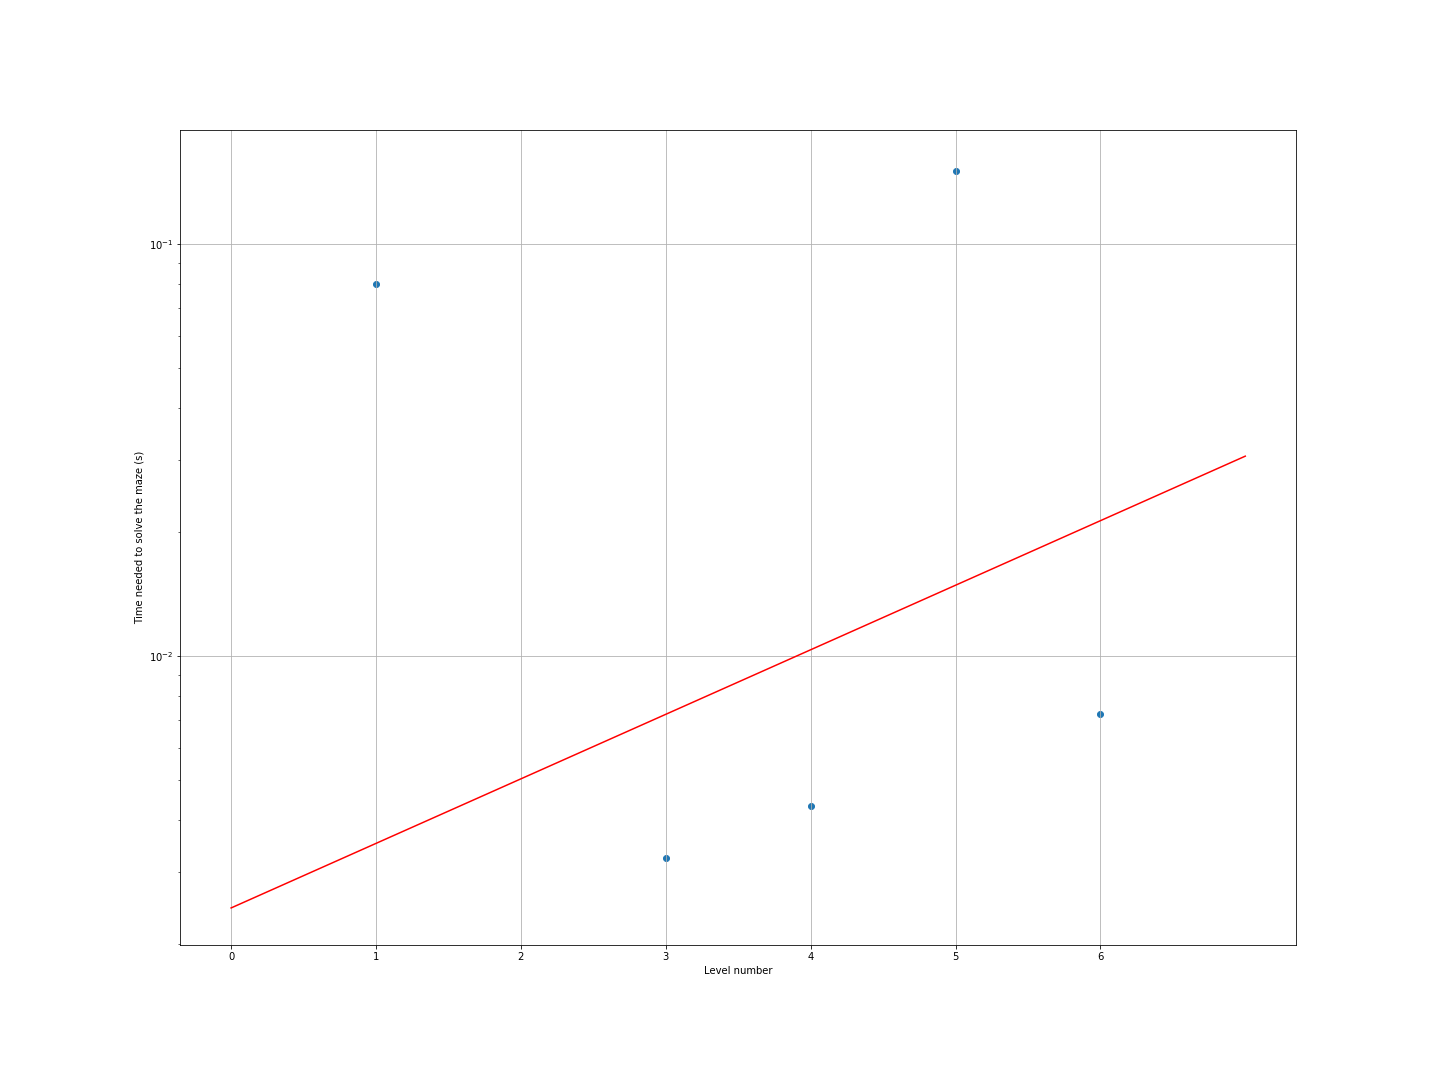
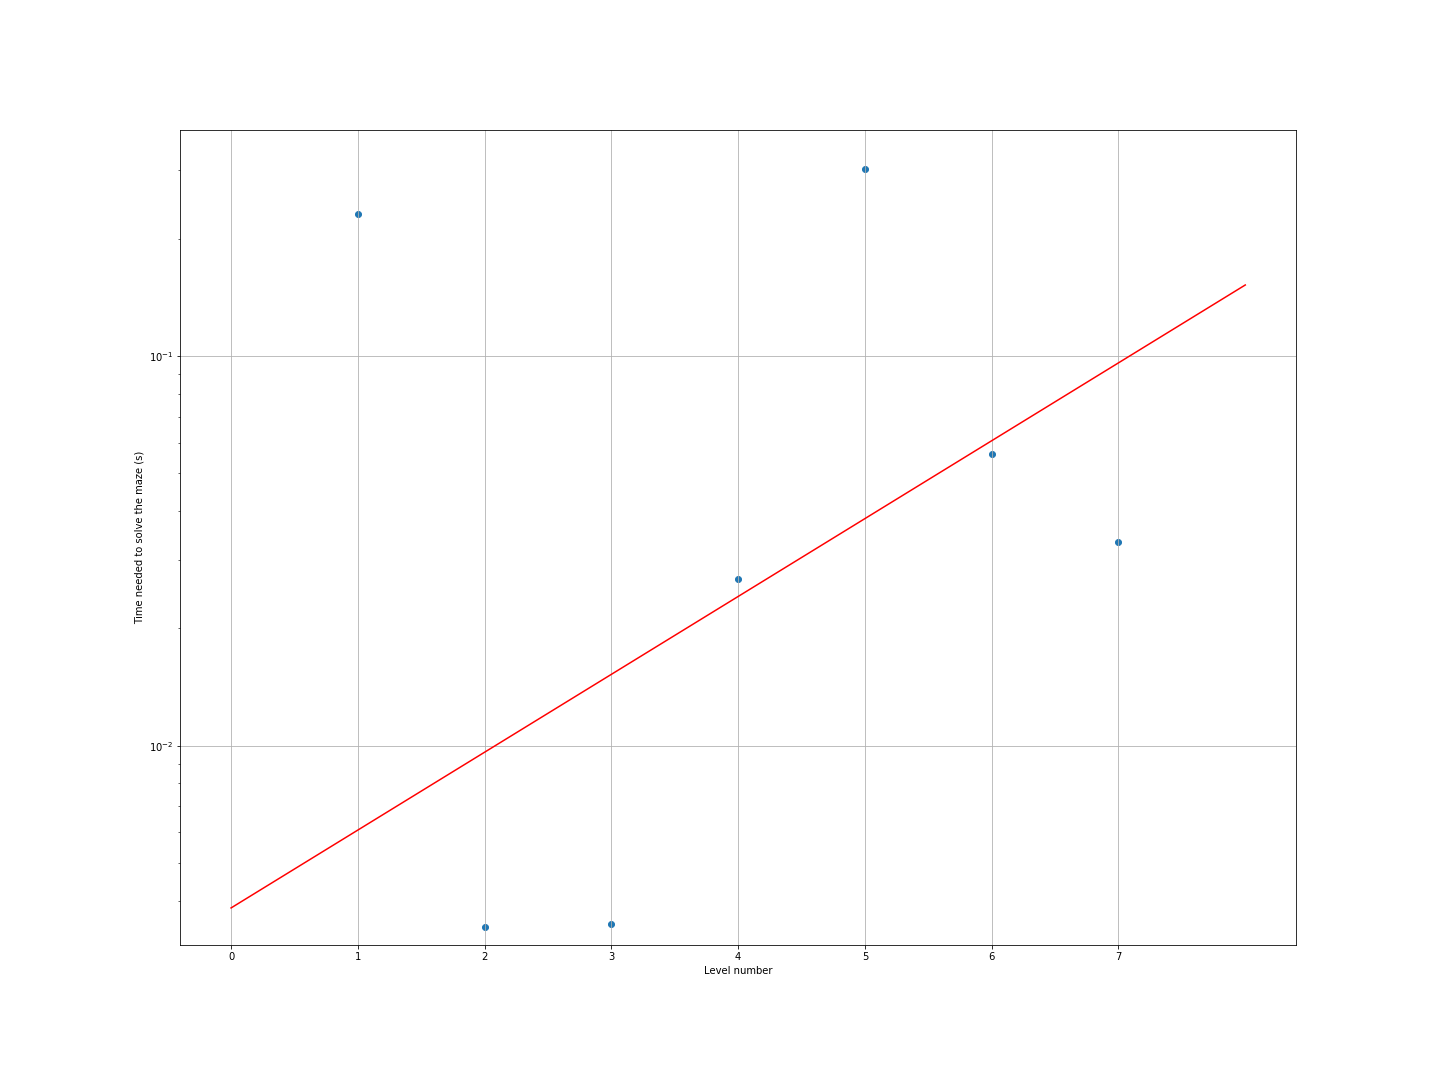
Multithreading the function that calculates all solutions

diff --git a/logic_gates_mazes_python_code/Levels.py b/logic_gates_mazes_python_code/Levels.py
@@ -123,6 +123,7 @@ class Levels:
                              level_knight,
                              level_syracuse,
                              level_temple,
+                             
                              #level_random,
                              ]
 
@@ -137,38 +138,45 @@ class Levels:
             Levels.levels_list[level_number].reboot_solution()
         return Levels.levels_list[level_number]
     
-    def save_solutions_txt(verbose=0, do_it_fast=False):
+    def save_solutions_txt(verbose=0, do_it_fast=False, multithreads=False):
         t0 = time()
         txt = ''
         if not os_path_exists('solutions'):
             os_mkdir('solutions')
-        if do_it_fast:
-            for k in range(Levels.number_of_levels):
+        if not do_it_fast:
+            calculations_times = [None for i in range(Levels.number_of_levels)]
+            def find_solution(k):
                 level = Levels.get_level(k)
+                txt = '\n'
                 name = level.name
-                if verbose > 0:
-                    print('\nLevel', k, ':', name)
-                txt += 'Level ' + str(k) + ' : ' + name + '\n'
-                txt += str(level.fastest_solution) + '\n\n'
-        else:
-            calculations_times = []
-            for k in range(Levels.number_of_levels):
-                level = Levels.get_level(k)
-                print('')
-                name = level.name
-                print('Level', k, ':', name)
-                txt += 'Level ' + str(k) + ' : ' + name + '\n'
+                txt = txt + ' '.join(['Level', str(k), ':', name, '\n'])
                 t2 = time()
-                solutions = level.find_all_solutions(stop_at_first_solution=False,
-                                                     verbose=0)
+                solutions = level.find_all_solutions(stop_at_first_solution=False, verbose=0)
                 t3 = time()
                 for sol in solutions:
-                    print(' '.join(sol))
-                    txt += ' '.join(sol) + '\n'
+                    txt = txt + ' '.join(sol) + '\n'
                 if verbose >= 1:
-                    print(t3 - t2, 's')
-                    calculations_times.append(t3 - t2)
-                txt += '\n' + level.name
+                    txt = txt + str(t3 - t2) + 's'
+                    calculations_times[k] = t3 - t2
+                print(txt)
+            if multithreads:
+                import threading
+                l_threads = []
+                for k in range(Levels.number_of_levels):
+                    thread = threading.Thread(target=find_solution, args=(k,))
+                    l_threads.append(thread)
+                for thread in l_threads:
+                    thread.start()
+                for thread in l_threads:
+                    thread.join()
+            else:
+                for k in range(Levels.number_of_levels):
+                    txt = find_solution(k)
+        for k in range(Levels.number_of_levels):
+            level = Levels.get_level(k)
+            name = level.name
+            txt += 'Level ' + str(k) + ' : ' + name + '\n'
+            txt += str(level.fastest_solution) + '\n\n'
         with open('solutions/solutions.txt', 'w') as f:
             f.write(txt)
         t1 = time()

diff --git a/logic_gates_mazes_python_code/save_solutions.py b/logic_gates_mazes_python_code/save_solutions.py
@@ -44,7 +44,7 @@ if __name__ == "__main__":
     # Game.save_levels_txt(verbose = 1, calculates_solutions = True)
 
     # calculations_times = [round(np.exp(10*i + 2*rd.random()),2) for i in range(16)]
-    calculations_times = Levels.save_solutions_txt(verbose = 1) 
+    calculations_times = Levels.save_solutions_txt(verbose = 1, multithreads=True) 
     # Cette fonction calcule les solutions, 
     # les enregistre dans un fichier texte
     # et renvoie le temps nécessaire pour calculer les solutions
